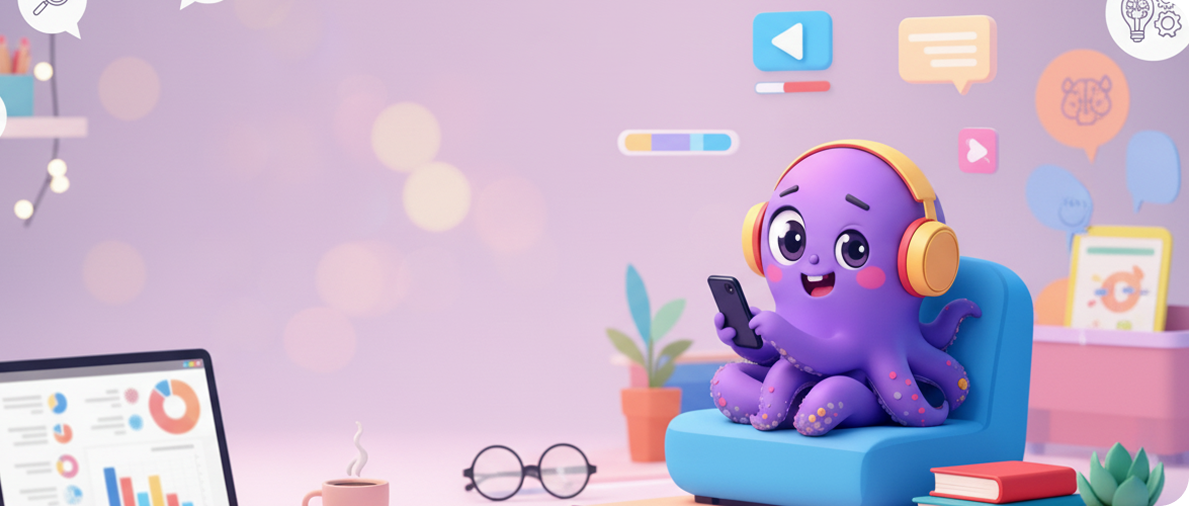
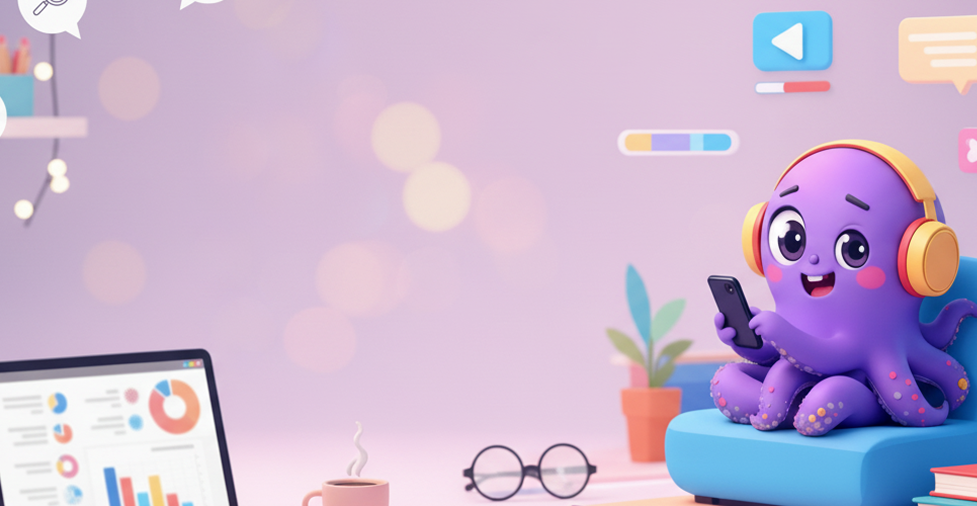
Image issue resolved in mobile view

diff --git a/static/src/App.jsx b/static/src/App.jsx
@@ -7,12 +7,15 @@ function App() {
   return (
       <div className='px-2 sm:px-8 py-4'>
         <NavBar/>
-        <section className='flex flex-col gap-2 mt-5 rounded-xl justify-center pr-[25%] sm:pr-[40%] md:pr-[65%] pl-[5%] h-[80vh] bg-[url(background_image_cutted.png)] md:bg-[url(background_image.png)] bg-cover bg-bottom md:bg-bottom-right '>
-            <p className='font-bold text-3xl'>Learning That Doesn't Feel Like Homework</p>
+        <section className='flex flex-col gap-2 mt-5 rounded-xl justify-end pb-2 sm:justify-center pr-[35%] sm:pr-[40%] md:pr-[65%] pl-[5%] h-[45vh] sm:h-[80vh] bg-[url(background_image_cutted.png)] md:bg-[url(background_image.png)] bg-cover bg-right-bottom md:bg-bottom-right'>
+            <p className='font-bold text-2xl sm:text-3xl'>Learning That Doesn't Feel Like Homework</p>
             <p className='md:font-semibold'>Stop doomscrolling. Start brainscollling.</p>
             <p className='text-xs hidden md:block'>Learn something brilliant between memes, coffee , or procrastination sessions. Because smart looks good on you.</p>
-            <button className='text-white px-10 py-2 border border-violet-700 hover:border-[#710cc4] rounded-xl border-b-4 w-[220px] bg-[#9515fe] mt-4 font-bold cursor-pointer hover:bg-[#710cc4]'>GET STARTED</button>
+            <button className='text-white px-10 py-3 border border-violet-700 hover:border-[#710cc4] rounded-xl border-b-4 w-[220px] bg-[#9515fe] mt-4 font-bold cursor-pointer hover:bg-[#710cc4]'>GET STARTED</button>
         </section>
+        <div className='block sm:hidden text-center mt-8 px-2'>
+          Learn something brilliant between memes, coffee , or procrastination sessions. Because smart looks good on you.
+        </div>
         <Learn/>
         <section className='flex flex-col gap-2 mt-36 md:mt-14 rounded-xl justify-center text-center md:text-start md:pr-[65%] pl-[5%] h-[65vh] bg-[url(background_image_3.png)] md:bg-[url(background_image_2.png)] bg-no-repeat bg-center md:bg-cover md:bg-bottom relative'>
             <p className='font-bold text-3xl text-violet-800 relative bottom-46 md:bottom-0'>Ready to Out-Smart your past Self?</p>

diff --git a/static/src/Components/Learn.jsx b/static/src/Components/Learn.jsx
@@ -1,6 +1,6 @@
 const Learn = () => {
     return (
-        <section className='mt-20 px-8 sm:px-16'>
+        <section className='mt-12 px-8 sm:px-16'>
             <h4 className='text-violet-800 font-bold text-center text-3xl'>Lot to Reasons to learn with us</h4>
             <p className='text-center mt-3 text-xs'>Discover smarter, faster, and more fun ways to reach your learning goals.</p>
             {/* Feature 1 */}
